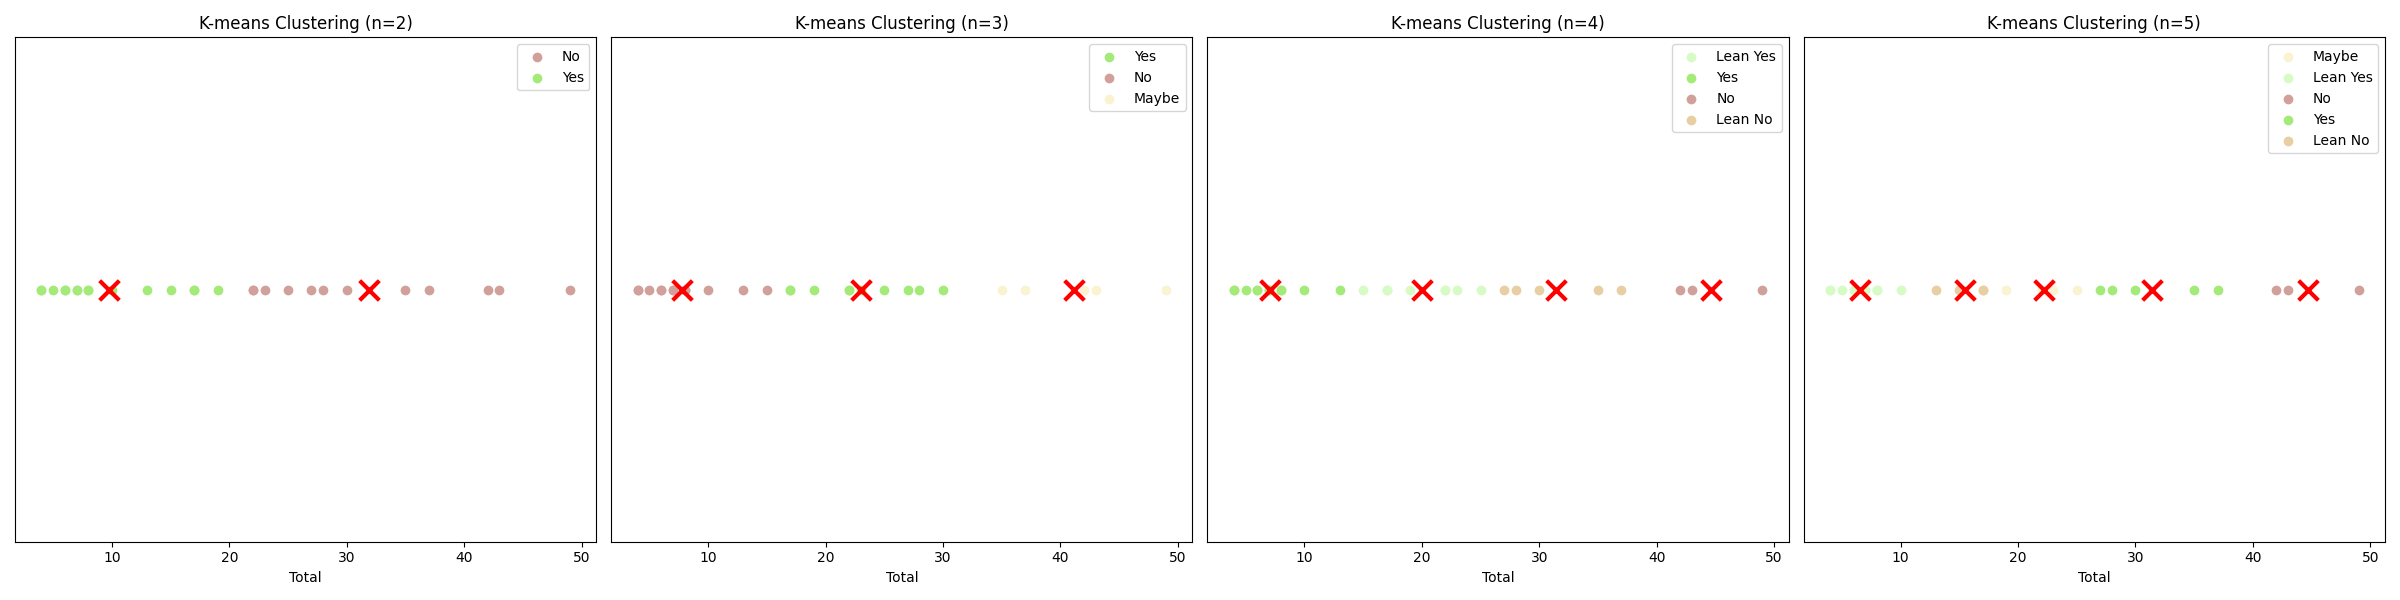
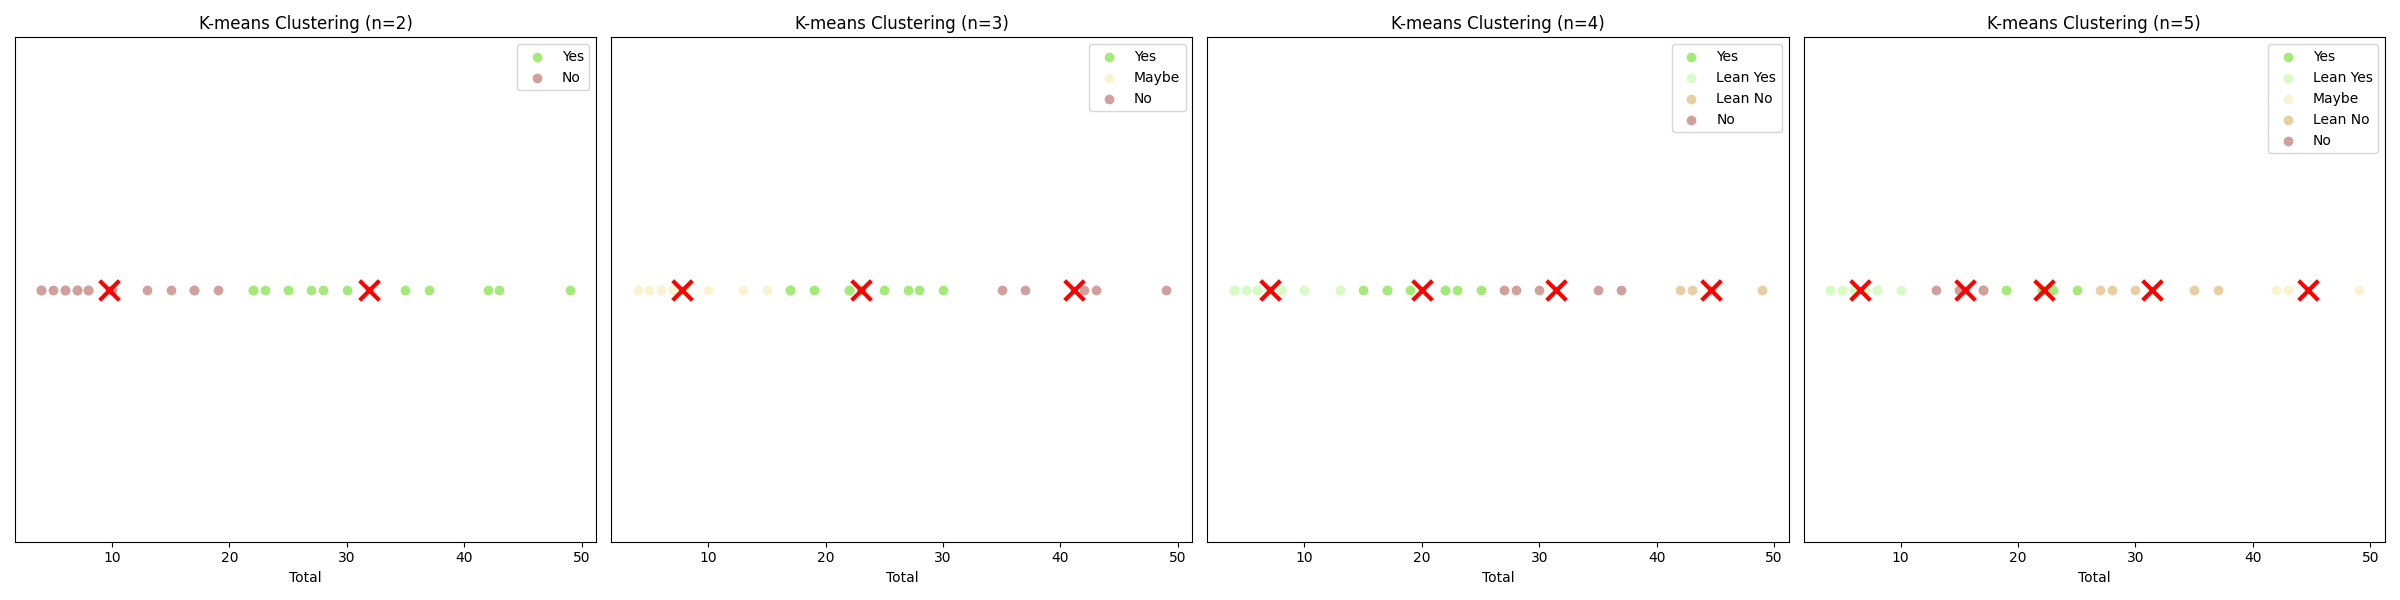
nearly there

diff --git a/scripts/kmeans.py b/scripts/kmeans.py
@@ -38,16 +38,22 @@ os.makedirs('figures', exist_ok=True)
 # Function to assign colors and names based on cluster means
 def assign_colors_and_names(kmeans, colors, names):
     cluster_means = kmeans.cluster_centers_.flatten()
-    sorted_indices = np.argsort(cluster_means)[::-1]  # Sort in descending order
-    return [colors[i] for i in sorted_indices], [names[i] for i in sorted_indices]
+    sorted_indices = np.argsort(cluster_means)
+    ordered_names = [names[len(names)-1-i] for i in range(len(names))]
+    ordered_colors = [colors[names.index(name)] for name in ordered_names]
+    return ordered_colors, ordered_names
 
 # Function to print components by cluster
 def print_components_by_cluster(kmeans, n_clusters, file, ordered_names):
     cluster_means = kmeans.cluster_centers_.flatten()
     sorted_indices = np.argsort(cluster_means)[::-1]
     for i, idx in enumerate(sorted_indices):
-        cluster_components = df[df[f'Cluster_{n_clusters}'] == idx]['Component'].tolist()
-        file.write(f"Cluster {ordered_names[i]} (Mean: {cluster_means[idx]:.2f}): {cluster_components}\n")
+        cluster_components = df[df[f'Cluster_{n_clusters}'] == idx]
+        component_means = cluster_components.groupby('Component')['Total'].mean().sort_values(ascending=False)
+        file.write(f"Cluster {ordered_names[i]} (Mean: {cluster_means[idx]:.2f}):\n")
+        for component, mean in component_means.items():
+            file.write(f"  - {component} (Mean: {mean:.2f})\n")
+        file.write("\n")
 
 # Plotting the results
 plt.figure(figsize=(24, 6))
@@ -58,6 +64,12 @@ with open('figures/kmeans_clusters.txt', 'w') as file:
         selected_names = [vote_category_names[j] for j in indexes]
         ordered_colors, ordered_names = assign_colors_and_names(kmeans, selected_colors, selected_names)
         cluster_labels = kmeans.labels_
+        
+        file.write(f"\nClustering results for n={n_clusters}:\n")
+        file.write(f"Cluster centers: {kmeans.cluster_centers_.flatten()}\n")
+        file.write(f"Ordered names: {ordered_names}\n")
+        file.write(f"Ordered colors: {ordered_colors}\n\n")
+        
         plt.subplot(1, 4, i)
         for j in range(n_clusters):
             cluster_points = total_values[cluster_labels == j]
@@ -69,7 +81,7 @@ with open('figures/kmeans_clusters.txt', 'w') as file:
         plt.legend()
 
         # Print components by cluster
-        file.write(f"\nComponents by cluster for n={n_clusters}:\n")
+        file.write(f"Components by cluster for n={n_clusters}:\n")
         print_components_by_cluster(kmeans, n_clusters, file, ordered_names)
 
 plt.tight_layout()
